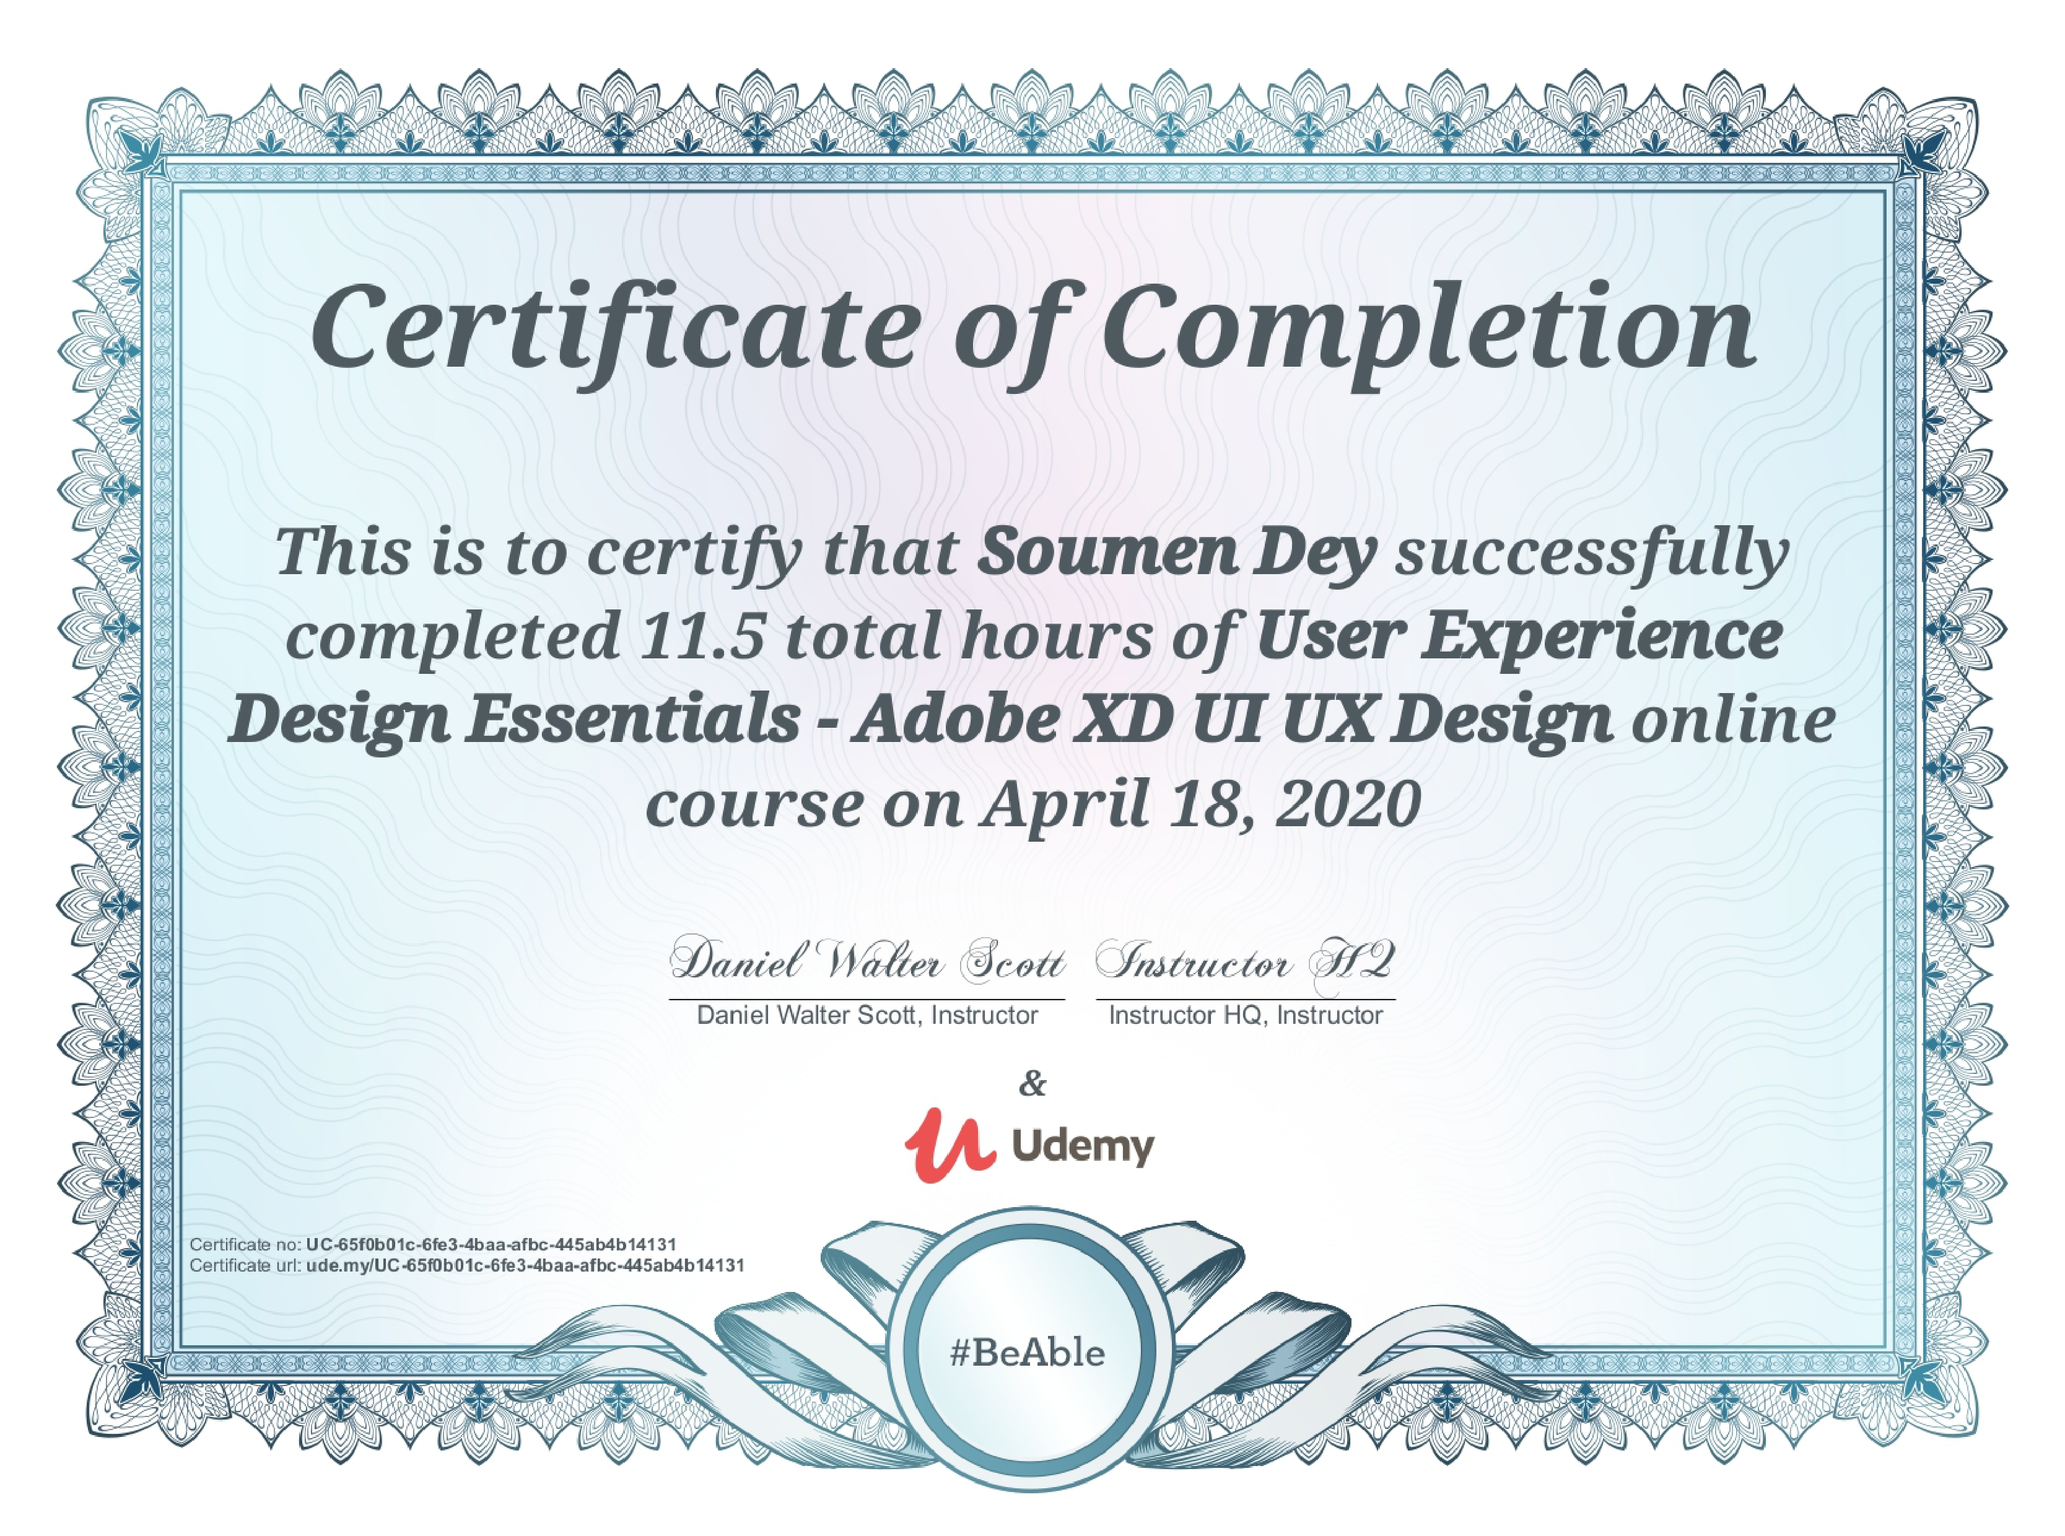
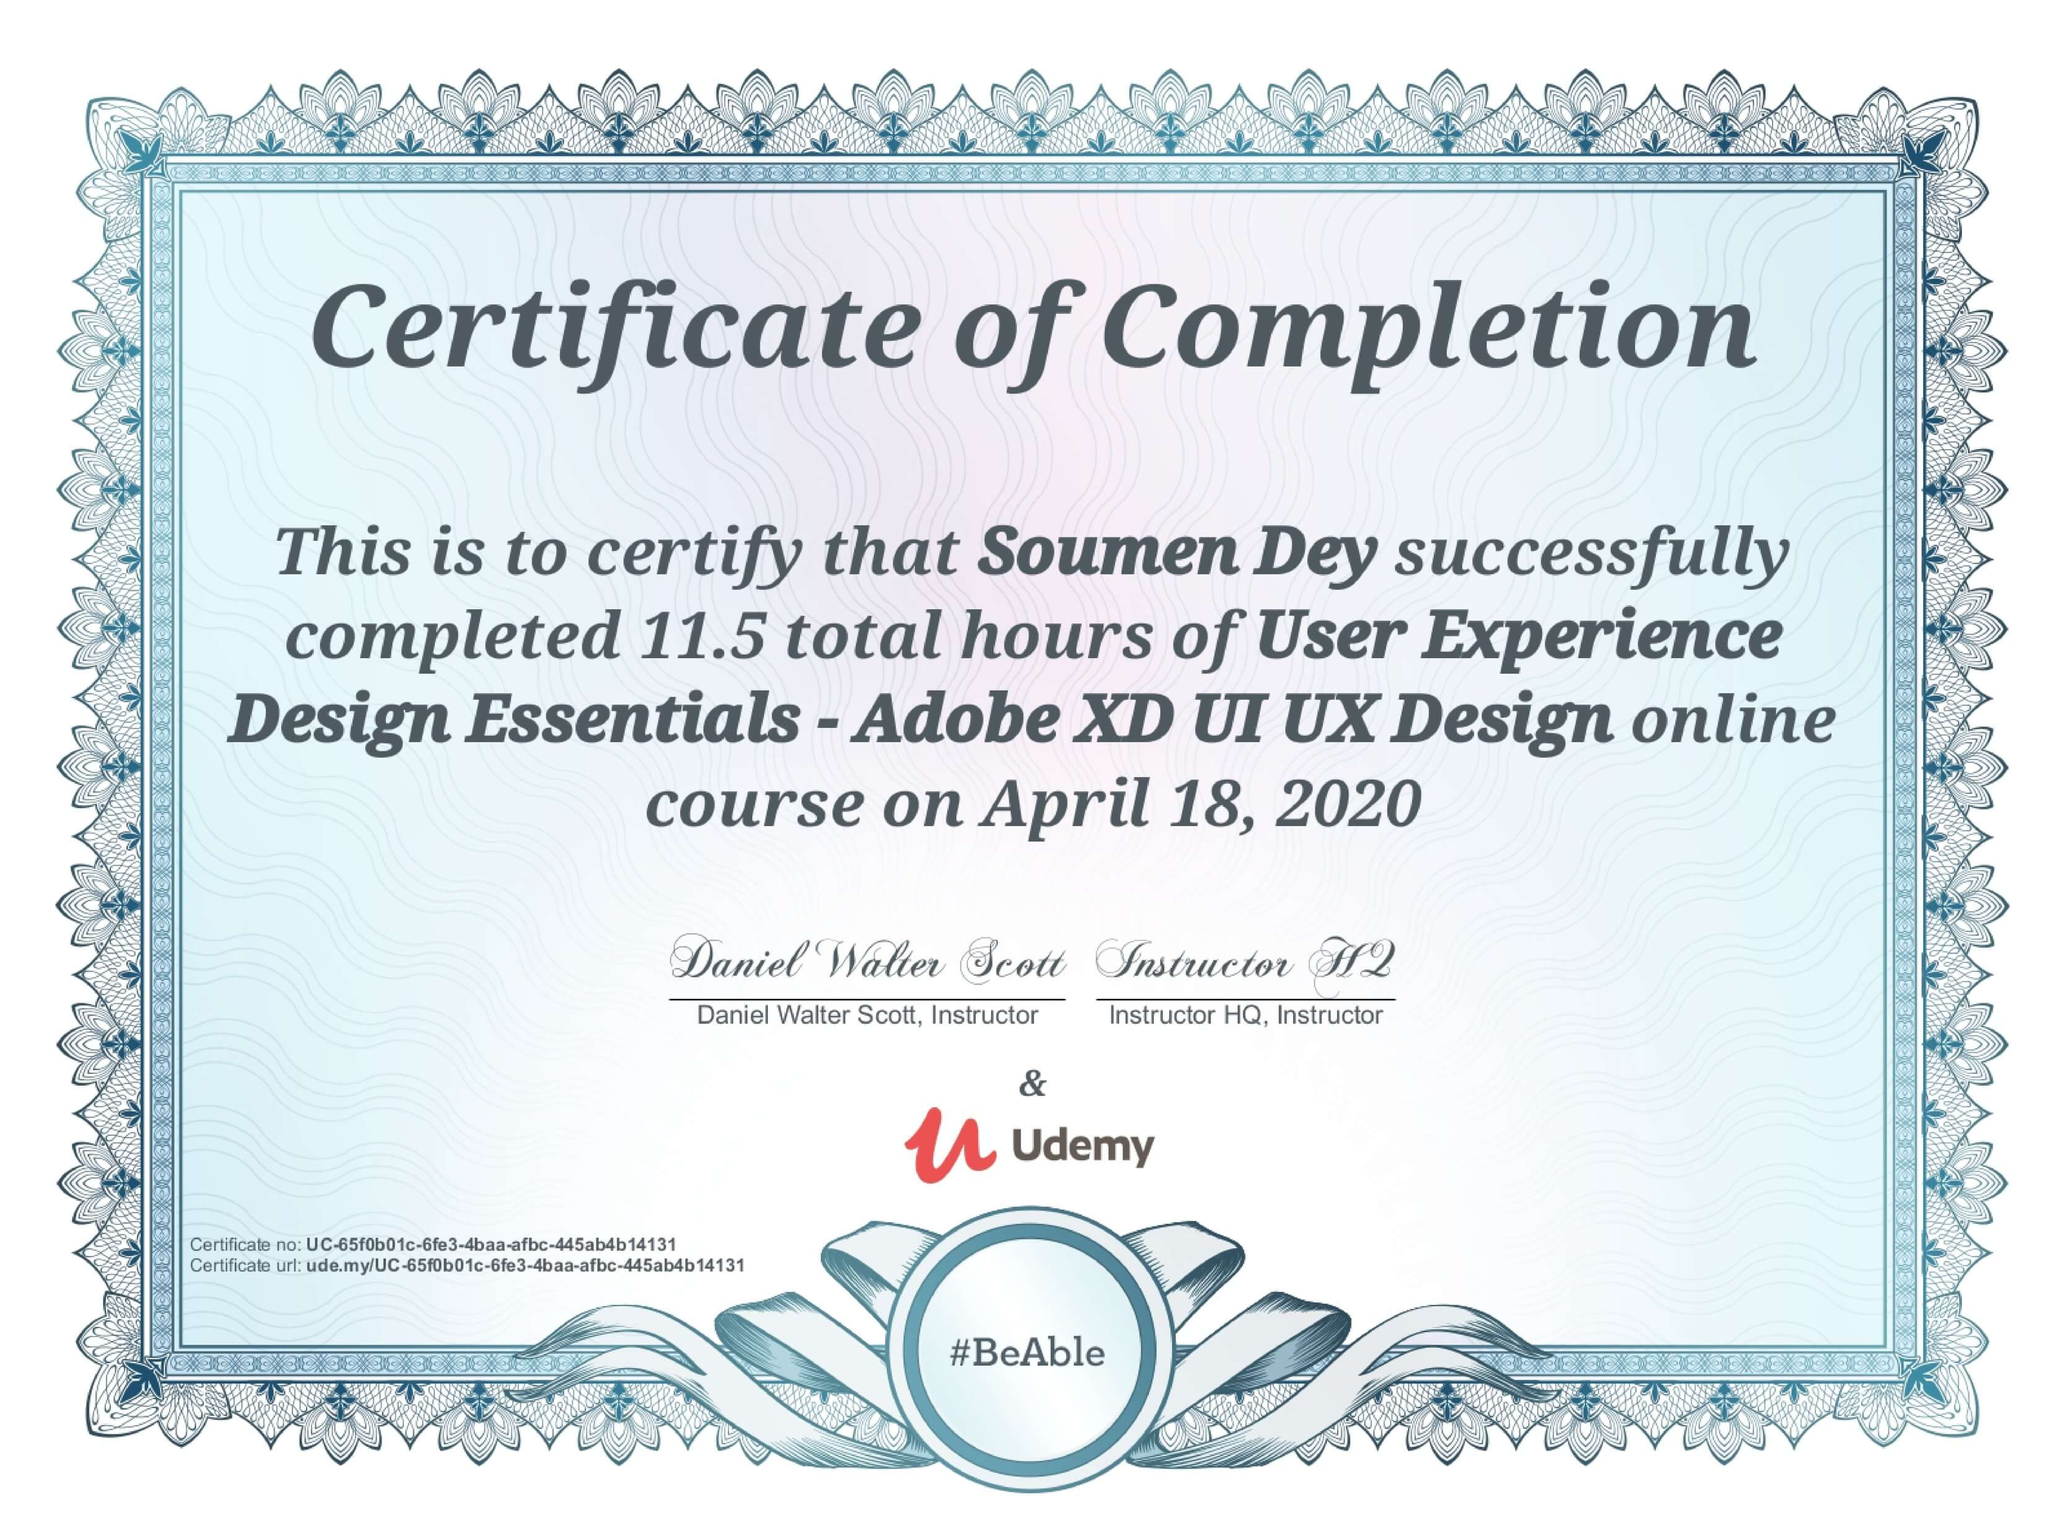
Update certifications section

diff --git a/index.html b/index.html
@@ -741,19 +741,19 @@
                             <div class="isotopeSelector logo">
                                 <article class="">
                                     <figure>
-                                        <img src="images/online-certificate/coursera/foundations-of-user-experience-(UX)-design.jpg" alt="Foundations of User Experience">
+                                        <img src="images/online-certificate/coursera/Foundations-of-User-Experience-Design.jpg" alt="Foundations of User Experience (UX) Design">
                                         <div class="overlay-background">
                                             <div class="inner"></div>
                                         </div>
                                         <div class="overlay">
                                             <div class="inner-overlay">
                                                 <div class="inner-overlay-content with-icons">
-                                                    <a title="Foundations of User Experience" class="fancybox-pop" rel="Certifications" href="images/online-certificate/coursera/foundations-of-user-experience-(UX)-design.jpg"><i class="bi bi-arrows-move"></i></a>
+                                                    <a title="Foundations of User Experience (UX) Design" class="fancybox-pop" rel="Certifications" href="images/online-certificate/coursera/Foundations-of-User-Experience-Design.jpg"><i class="bi bi-arrows-move"></i></a>
                                                 </div>
                                             </div>
                                         </div>
                                     </figure>
-                                    <div class="article-title"><a href="javascript:;">Foundations of User Experience</a></div>
+                                    <div class="article-title"><a href="javascript:;"><span>Foundations of</span> <span>User Experience (UX) Design<span></a></div>
                                 </article>
                             </div>
 
@@ -771,19 +771,19 @@
                                 <div class="isotopeSelector logo">
                                     <article class="">
                                         <figure>
-                                            <img src="images/online-certificate/coursera/creating-user-profiles.jpg" alt="User Experience Design">
+                                            <img src="images/online-certificate/coursera/Build-an-E-commerce-Dashboard-with-Figma.jpg" alt="Build an E-commerce Dashboard with Figma">
                                             <div class="overlay-background">
                                                 <div class="inner"></div>
                                             </div>
                                             <div class="overlay">
                                                 <div class="inner-overlay">
                                                     <div class="inner-overlay-content with-icons">
-                                                        <a title="User Experience Design" class="fancybox-pop" rel="Certifications" href="images/online-certificate/coursera/creating-user-profiles.jpg"><i class="bi bi-arrows-move"></i></a>
+                                                        <a title="Build an E-commerce Dashboard with Figma" class="fancybox-pop" rel="Certifications" href="images/online-certificate/coursera/Build-an-E-commerce-Dashboard-with-Figma.jpg"><i class="bi bi-arrows-move"></i></a>
                                                     </div>
                                                 </div>
                                             </div>
                                         </figure>
-                                        <div class="article-title"><a href="javascript:;">User Experience Design</a></div>
+                                        <div class="article-title"><a href="javascript:;"><span>Build an E-commerce Dashboard</span><span>with Figma</span></a></div>
                                     </article>
                                 </div>
 
@@ -799,19 +799,19 @@
                                 <div class="isotopeSelector logo">
                                     <article class="">
                                         <figure>
-                                            <img src="images/online-certificate/coursera/figma.jpg" alt="E-commerce Dashboard with Figma">
+                                            <img src="images/online-certificate/coursera/Car-Transport-App-in-Figma.jpg" alt="Car Transport App in Figma">
                                             <div class="overlay-background">
                                                 <div class="inner"></div>
                                             </div>
                                             <div class="overlay">
                                                 <div class="inner-overlay">
                                                     <div class="inner-overlay-content with-icons">
-                                                        <a title="E-commerce Dashboard with Figma" class="fancybox-pop" rel="Certifications" href="images/online-certificate/coursera/figma.jpg"><i class="bi bi-arrows-move"></i></a>
+                                                        <a title="Car Transport App in Figma" class="fancybox-pop" rel="Certifications" href="images/online-certificate/coursera/Car-Transport-App-in-Figma.jpg"><i class="bi bi-arrows-move"></i></a>
                                                     </div>
                                                 </div>
                                             </div>
                                         </figure>
-                                        <div class="article-title"><a href="javascript:;">E-commerce Dashboard with Figma</a></div>
+                                        <div class="article-title"><a href="javascript:;"><span>Car Transport App</span><span>in Figma</span></a></div>
                                     </article>
                                 </div>
                             </div>
@@ -825,19 +825,19 @@
                                 <div class="isotopeSelector logo">
                                     <article class="">
                                         <figure>
-                                            <img src="images/online-certificate/linkedIn-learning/adobe-XD-essential-training-design.jpg" alt="Adobe XD Essential Training">
+                                            <img src="images/online-certificate/coursera/Design-a-mobile-app-interface-with-Moqups.jpg" alt="Design a mobile app interface with Moqups">
                                             <div class="overlay-background">
                                                 <div class="inner"></div>
                                             </div>
                                             <div class="overlay">
                                                 <div class="inner-overlay">
                                                     <div class="inner-overlay-content with-icons">
-                                                        <a title="Adobe XD Essential Training" class="fancybox-pop" rel="Certifications" href="images/online-certificate/linkedIn-learning/adobe-XD-essential-training-design.jpg"><i class="bi bi-arrows-move"></i></a>
+                                                        <a title="Design a mobile app interface with Moqups" class="fancybox-pop" rel="Certifications" href="images/online-certificate/coursera/Design-a-mobile-app-interface-with-Moqups.jpg"><i class="bi bi-arrows-move"></i></a>
                                                     </div>
                                                 </div>
                                             </div>
                                         </figure>
-                                        <div class="article-title"><a href="javascript:;">Adobe XD Essential Training</a></div>
+                                        <div class="article-title"><a href="javascript:;"><span>Design a mobile app interface</span><span>with Moqups</span></a></div>
                                     </article>
                                 </div>
                             </div>
@@ -851,19 +851,19 @@
         <div class="isotopeSelector logo">
             <article class="">
                 <figure>
-                    <img src="images/online-certificate/linkedIn-learning/ux-foundations-prototyping.jpg" alt="UX Foundations: Prototyping">
+                    <img src="images/online-certificate/coursera/Designing-a-Low-Fidelity-Prototype-in-Figma.jpg" alt="Designing a Low Fidelity Prototype in Figma">
                     <div class="overlay-background">
                         <div class="inner"></div>
                     </div>
                     <div class="overlay">
                         <div class="inner-overlay">
                             <div class="inner-overlay-content with-icons">
-                                <a title="UX Foundations: Prototyping" class="fancybox-pop" rel="Certifications" href="images/online-certificate/linkedIn-learning/ux-foundations-prototyping.jpg"><i class="bi bi-arrows-move"></i></a>
+                                <a title="Designing a Low Fidelity Prototype in Figma" class="fancybox-pop" rel="Certifications" href="images/online-certificate/coursera/Designing-a-Low-Fidelity-Prototype-in-Figma.jpg"><i class="bi bi-arrows-move"></i></a>
                             </div>
                         </div>
                     </div>
                 </figure>
-                <div class="article-title"><a href="javascript:;">UX Foundations: Prototyping</a></div>
+                <div class="article-title"><a href="javascript:;"><span>Designing a Low Fidelity Prototype</span><span>in Figma</span></a></div>
             </article>
         </div>
     </div>
@@ -881,19 +881,19 @@
     <div class="isotopeSelector logo">
         <article class="">
             <figure>
-                <img src="images/online-certificate/pluralsight/adobe-xd-cc-fundamentals.jpg" alt="Adobe XD CC Fundamentals">
+                <img src="images/online-certificate/coursera/Get-Started-with-Figma.jpg" alt="Get Started with Figma">
                 <div class="overlay-background">
                     <div class="inner"></div>
                 </div>
                 <div class="overlay">
                     <div class="inner-overlay">
                         <div class="inner-overlay-content with-icons">
-                            <a title="Adobe XD CC Fundamentals" class="fancybox-pop" rel="Certifications" href="images/online-certificate/pluralsight/adobe-xd-cc-fundamentals.jpg"><i class="bi bi-arrows-move"></i></a>
+                            <a title="Get Started with Figma" class="fancybox-pop" rel="Certifications" href="images/online-certificate/coursera/Get-Started-with-Figma.jpg"><i class="bi bi-arrows-move"></i></a>
                         </div>
                     </div>
                 </div>
             </figure>
-            <div class="article-title"><a href="javascript:;">Adobe XD CC Fundamentals</a></div>
+            <div class="article-title"><a href="javascript:;"><span>Get Started with</span><span>Figma</span></a></div>
         </article>
     </div>
 </div>
@@ -908,19 +908,19 @@
                                     <div class="isotopeSelector logo">
                                         <article class="">
                                             <figure>
-                                                <img src="images/online-certificate/pluralsight/websites-in-balsamiq-mockups.jpg" alt="Websites in Balsamiq Mockups">
+                                                <img src="images/online-certificate/coursera/User-Experience-Design-Creating-User-Profiles.jpg" alt="User Experience Design Creating User Profiles">
                                                 <div class="overlay-background">
                                                     <div class="inner"></div>
                                                 </div>
                                                 <div class="overlay">
                                                     <div class="inner-overlay">
                                                         <div class="inner-overlay-content with-icons">
-                                                            <a title="Websites in Balsamiq Mockups" class="fancybox-pop" rel="Certifications" href="images/online-certificate/pluralsight/websites-in-balsamiq-mockups.jpg"><i class="bi bi-arrows-move"></i></a>
+                                                            <a title="User Experience Design Creating User Profiles" class="fancybox-pop" rel="Certifications" href="images/online-certificate/coursera/User-Experience-Design-Creating-User-Profiles.jpg"><i class="bi bi-arrows-move"></i></a>
                                                         </div>
                                                     </div>
                                                 </div>
                                             </figure>
-                                            <div class="article-title"><a href="javascript:;">Websites in Balsamiq Mockups</a></div>
+                                            <div class="article-title"><a href="javascript:;"><span>User Experience Design</span><span>Creating User Profiles</span></a></div>
                                         </article>
                                     </div>
                                 </div>
@@ -933,19 +933,19 @@
     <div class="isotopeSelector logo">
         <article class="">
             <figure>
-                <img src="images/online-certificate/udemy/user-experience-design-essentials.jpg" alt="User Experience Design Essentials">
+                <img src="images/online-certificate/coursera/Work-with-Components-in-Figma.jpg" alt="Work with Components in Figma">
                 <div class="overlay-background">
                     <div class="inner"></div>
                 </div>
                 <div class="overlay">
                     <div class="inner-overlay">
                         <div class="inner-overlay-content with-icons">
-                            <a title="User Experience Design Essentials" class="fancybox-pop" rel="Certifications" href="images/online-certificate/udemy/user-experience-design-essentials.jpg"><i class="bi bi-arrows-move"></i></a>
+                            <a title="Work with Components in Figma" class="fancybox-pop" rel="Certifications" href="images/online-certificate/coursera/Work-with-Components-in-Figma.jpg"><i class="bi bi-arrows-move"></i></a>
                         </div>
                     </div>
                 </div>
             </figure>
-            <div class="article-title"><a href="javascript:;">User Experience Design Essentials</a></div>
+            <div class="article-title"><a href="javascript:;"><span>Work with Components</span><span>in Figma</span></a></div>
         </article>
     </div>
 </div>
